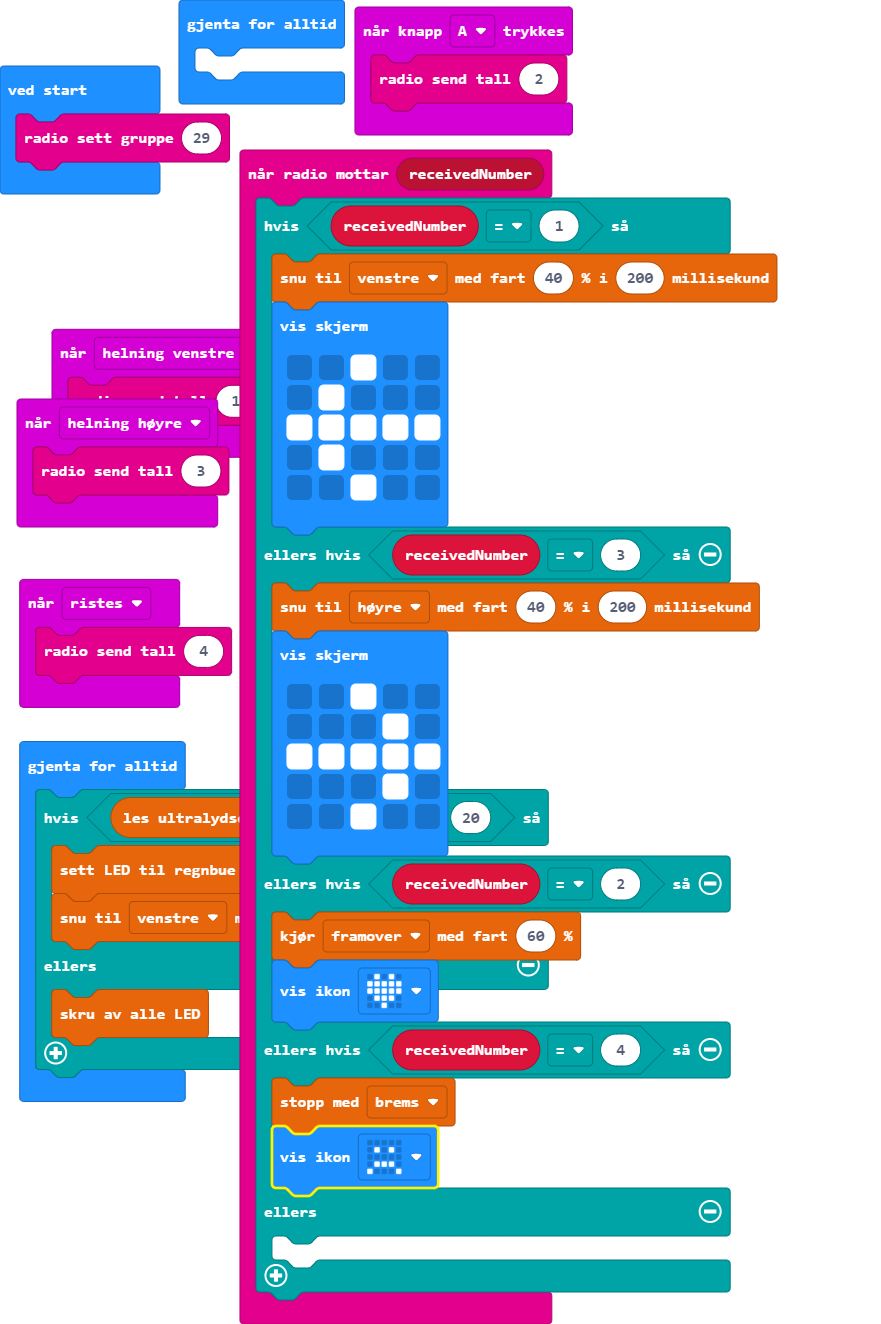
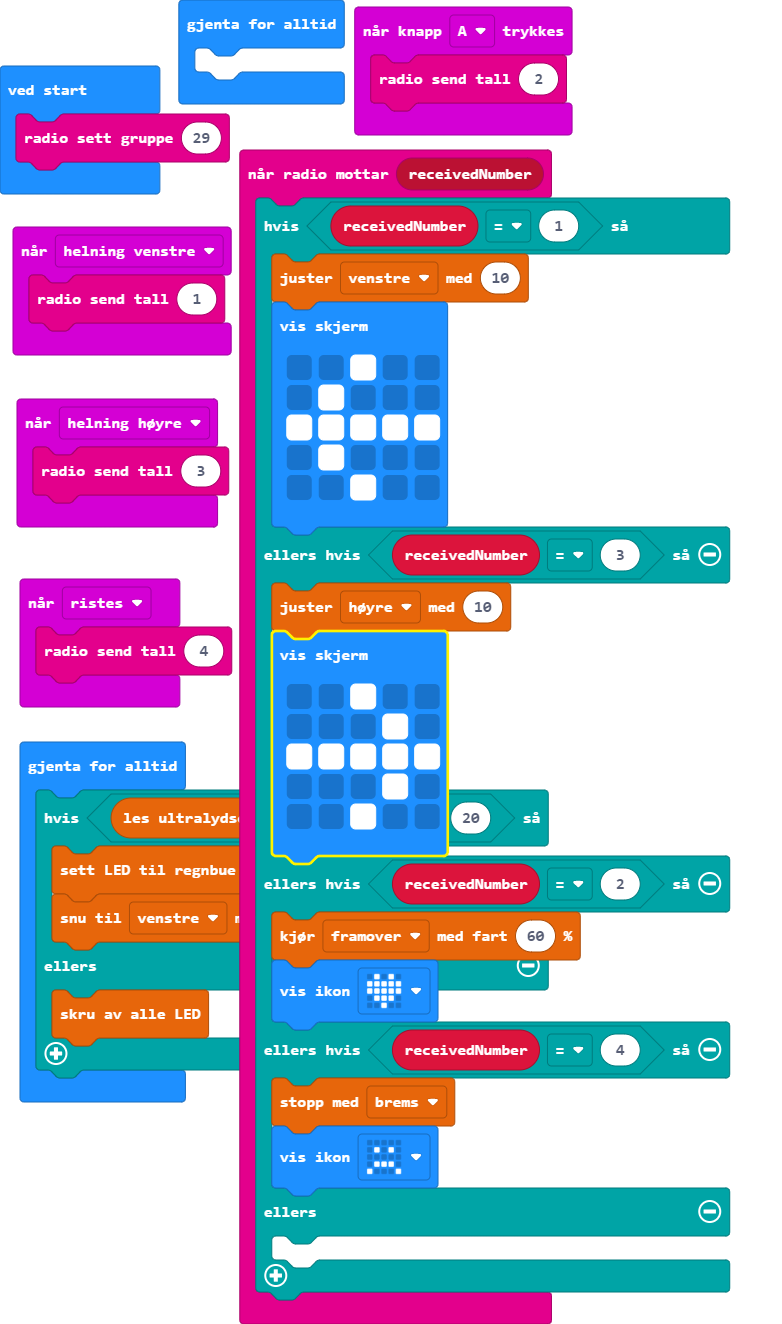
Update main.blocks, main.ts

Changed region(s): [[0.0, 0.0, 0.9514, 1.0], [0.798, 0.898, 0.9514, 0.9909], [0.6138, 0.96, 0.7059, 1.0]]

diff --git a/main.ts b/main.ts
@@ -1,6 +1,6 @@
 radio.onReceivedNumber(function (receivedNumber) {
     if (receivedNumber == 1) {
-        bitbot.rotatems(BBRobotDirection.Left, 40, 200)
+        bitbot.BBBias(BBRobotDirection.Left, 10)
         basic.showLeds(`
             . . # . .
             . # . . .
@@ -9,7 +9,7 @@ radio.onReceivedNumber(function (receivedNumber) {
             . . # . .
             `)
     } else if (receivedNumber == 3) {
-        bitbot.rotatems(BBRobotDirection.Right, 40, 200)
+        bitbot.BBBias(BBRobotDirection.Right, 10)
         basic.showLeds(`
             . . # . .
             . . . # .
